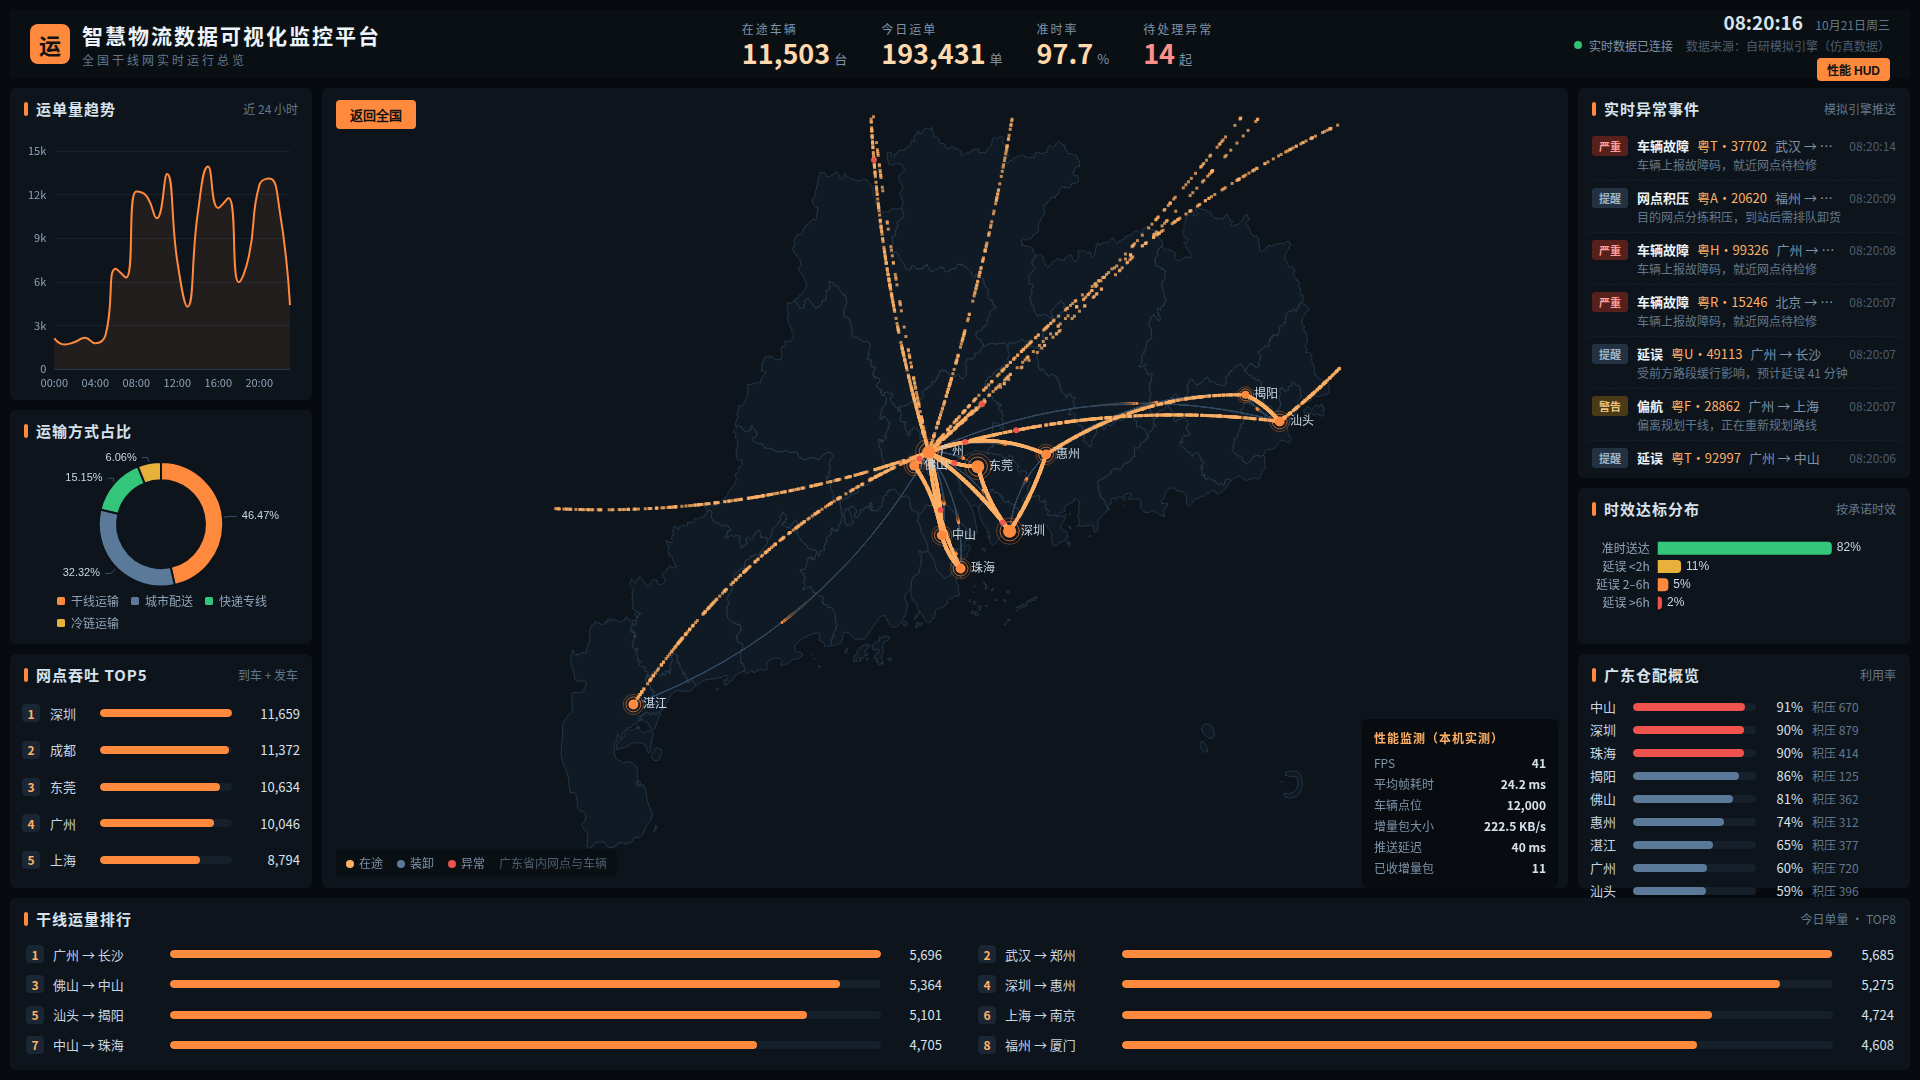
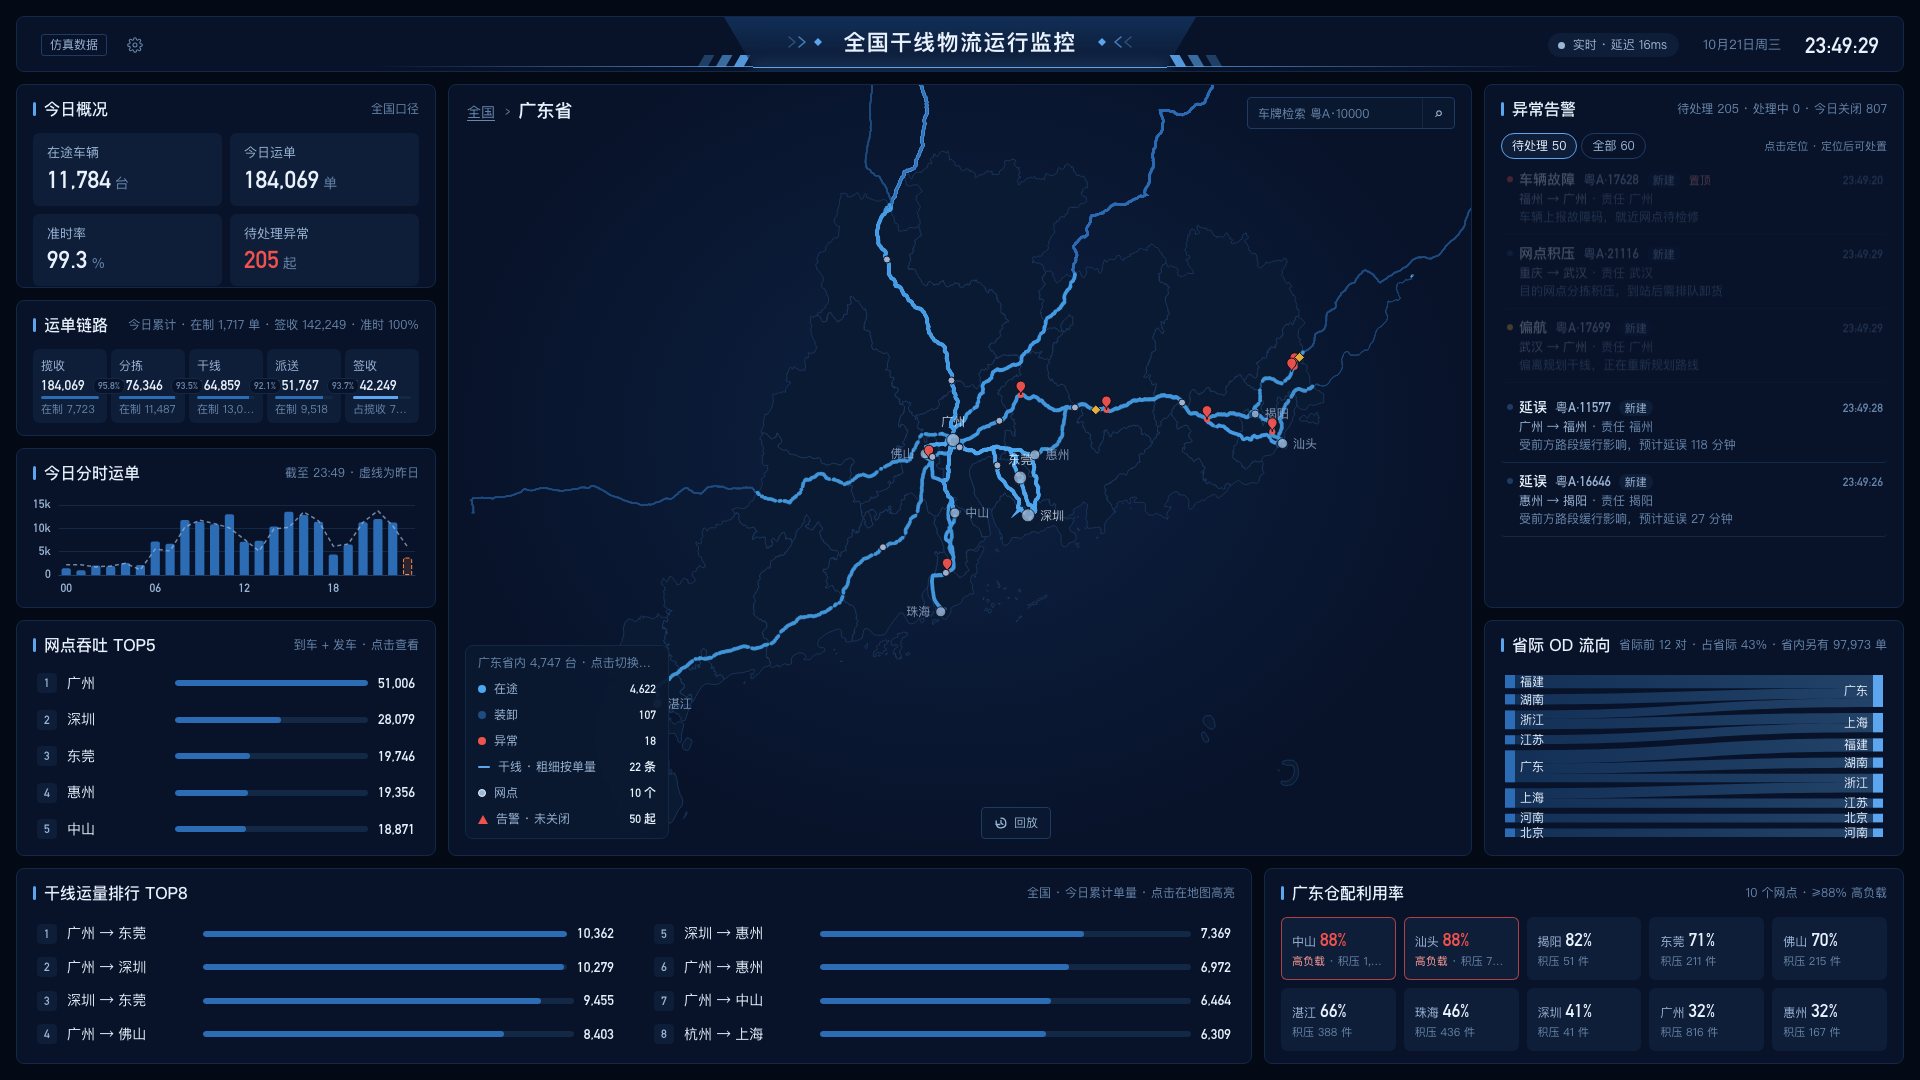
fix: 修复生产包首屏快照早于路线分块到达时 geo 无地图名导致地图实例作废，新增 CDP 截图与传输量实测脚本，重拍六张截图并更新性能表，收紧 1366/1440 紧凑布局

diff --git a/client/src/components/MapChart.vue b/client/src/components/MapChart.vue
@@ -50,6 +50,9 @@ let feedTimer: number | undefined
 let transitionTimer: number | undefined
 let buildVersion = 0
 let disposed = false
+// 基础 option（geo + 全部 series）是否已设置到当前实例：之前局部 setOption 若抢在它前面，
+// 会生成没有 map 名的 geo 组件，生产包里 ECharts 直接抛错并让实例作废（首包快照早于路线分块到达时必现）
+let ready = false
 const switching = ref(false)
 // 图例计数：统计当前视图内全部车辆（不受画质抽稀和图层开关影响）
 const statusCounts = ref<[number, number, number]>([0, 0, 0])
@@ -146,7 +149,7 @@ const VEHICLE_SERIES_IDS = ['veh-0', 'veh-1', 'veh-2', 'veh-dim']
 
 function renderVehicles(limit = Number.POSITIVE_INFINITY) {
   const c = chart.value
-  if (!c) return
+  if (!c || !ready) return
   const groups = vehicleSeriesData(limit)
   store.renderedVehicles = groups.reduce((sum, group) => sum + group.length, 0)
   // 增量更新：只替换三组车辆散点与追踪标记的数据，不重建整个 option
@@ -394,7 +397,7 @@ function geoTooltip(p: { name: string }) {
 
 function updateSelection() {
   const c = chart.value
-  if (!c) return
+  if (!c || !ready) return
   c.dispatchAction({ type: 'hideTip' })
   c.setOption({ geo: geoLayout(), series: [
     { id: 'lines', data: linesData() },
@@ -582,6 +585,7 @@ async function rebuildMap() {
   const c = chart.value
   if (!c) return
   const version = ++buildVersion
+  ready = false
   switching.value = true
   mapError.value = ''
   window.clearTimeout(feedTimer)
@@ -593,6 +597,7 @@ async function rebuildMap() {
     region = loaded
     if (loaded) ASPECT[view] = loaded.aspect
     c.setOption(baseOption(), { notMerge: true })
+    ready = true
     progressiveFeed()
     updateSelection()
   } catch (error) {
@@ -738,7 +743,7 @@ watch(insetChart, (c) => {
 }, { flush: 'post' })
 
 // 地图布局用的是画布像素坐标，不会随 resize 自动更新：等图表实例按新尺寸 resize 完成后再重算
-onResized(() => chart.value?.setOption({ geo: geoLayout() }))
+onResized(() => { if (ready) chart.value?.setOption({ geo: geoLayout() }) })
 
 onBeforeUnmount(() => {
   disposed = true
@@ -752,7 +757,7 @@ watch([() => store.selectedHubId, () => store.activeEvent, () => store.selectedP
 // 尾迹拉取完成 / 回放开关切换时重画尾迹与标记
 watch([() => store.trail, () => store.playback.on], () => { updateSelection(); scheduleVehicleRender() })
 // 告警到达 / 处置 / 关闭时刷新地图标记（事件列表引用变化即触发）
-watch(() => store.events, () => { if (chart.value) chart.value.setOption({ series: [{ id: 'alert-marks', data: alertMarkData() }] }) })
+watch(() => store.events, () => { if (chart.value && ready) chart.value.setOption({ series: [{ id: 'alert-marks', data: alertMarkData() }] }) })
 // 选中干线：线路淡出 / 高亮与线外车辆淡化一起更新；单量分级变化（跨四分位）时重画线路
 watch(() => store.selectedRouteIndex, () => { updateSelection(); scheduleVehicleRender() })
 watch(gradeKey, () => { if (store.hasData) updateSelection() })

diff --git a/client/src/App.vue b/client/src/App.vue
@@ -50,8 +50,8 @@ onMounted(() => {
   } catch { store.hudOn = hud === '1' }
   window.addEventListener('keydown', onKey)
   startDataFeed()
-  // 开发模式调试钩子：方便用无头浏览器验收下钻/网点详情等交互状态
-  if (import.meta.env.DEV) {
+  // 调试钩子：开发模式或 URL 带 ?debug=1 时暴露 store，供无头浏览器验收脚本切换下钻 / 网点详情等状态
+  if (import.meta.env.DEV || new URLSearchParams(location.search).get('debug') === '1') {
     ;(window as unknown as Record<string, unknown>).__dashboard = store
   }
 })
@@ -213,8 +213,8 @@ button:focus-visible, [role='button']:focus-visible {
 @media (max-width: 1599px), (max-height: 980px) {
   .screen { grid-template-rows: auto minmax(520px, 1fr) 168px; }
   .middle { grid-template-columns: 340px minmax(0, 1fr) 340px; }
-  .left { grid-template-rows: auto auto minmax(150px, 1fr) 220px; }
-  .right { grid-template-rows: minmax(0, 1fr) 220px; }
+  .left { grid-template-rows: auto auto minmax(130px, 1fr) 172px; }
+  .right { grid-template-rows: minmax(0, 1fr) 200px; }
   .bottom { grid-template-columns: minmax(0, 1fr) 520px; }
 }
 /* 矮屏（如 1366×768 笔记本）：正常状态一屏放下；出现数据提示条时允许少量滚动，不压缩图表可读高度 */
@@ -223,8 +223,8 @@ button:focus-visible, [role='button']:focus-visible {
   .middle, .col, .bottom { gap: var(--space-2); }
   /* 中间三列不以内容撑高（告警条数随高度变化，避免互相放大），行高只取最小值与剩余空间 */
   .middle > * { contain: size; }
-  .left { grid-template-rows: auto auto minmax(150px, 1fr) 176px; }
-  .right { grid-template-rows: minmax(0, 1fr) 176px; }
+  .left { grid-template-rows: auto auto minmax(90px, 1fr) 140px; }
+  .right { grid-template-rows: minmax(0, 1fr) 160px; }
 }
 /* 放大模式下逻辑高度为 1080，逻辑宽 ≥ 2400 等价于宽高比 ≥ 20/9（媒体查询只看物理 CSS 尺寸）。
    宽屏规则都排除 fit-contain：媒体查询看的是视口，而 contain 的内容宽固定 ≤1920，应沿用 1920 布局 */

diff --git a/client/vite.config.ts b/client/vite.config.ts
@@ -5,24 +5,26 @@ import vue from '@vitejs/plugin-vue'
 const env = (globalThis as { process?: { env: Record<string, string | undefined> } }).process?.env ?? {}
 const engine = env.ENGINE_URL || 'http://localhost:8787'
 
+const proxy = {
+  '/api': {
+    target: engine,
+    changeOrigin: true,
+    rewrite: (p: string) => p.replace(/^\/api/, ''),
+  },
+  '/ws': {
+    target: engine.replace(/^http/, 'ws'),
+    ws: true,
+    rewrite: () => '/',
+  },
+}
+
 export default defineConfig({
   plugins: [vue()],
   // 地图 GeoJSON 以 JSON.parse("…") 形式打包，比同等大小的 JS 对象字面量解析更快
   json: { stringify: true },
-  server: {
-    proxy: {
-      '/api': {
-        target: engine,
-        changeOrigin: true,
-        rewrite: (p) => p.replace(/^\/api/, ''),
-      },
-      '/ws': {
-        target: engine.replace(/^http/, 'ws'),
-        ws: true,
-        rewrite: () => '/',
-      },
-    },
-  },
+  server: { proxy },
+  // vite preview 同样代理到引擎，验收脚本可直接对生产构建截图与测帧率
+  preview: { proxy },
   build: {
     target: 'chrome87',
     chunkSizeWarningLimit: 2500,

diff --git a/client/src/components/KpiOverview.vue b/client/src/components/KpiOverview.vue
@@ -58,10 +58,17 @@ dd { display: flex; align-items: baseline; gap: var(--space-1); min-width: 0; ma
 }
 .value.alert { color: var(--color-danger); }
 small { flex: none; font-size: var(--font-body); color: var(--color-tertiary); }
-/* 矮屏：卡片收紧，把高度让给分时柱图 */
-@media (max-height: 820px) {
-  .tile { padding: 4px 12px 6px; }
+/* 紧凑布局（1600 宽以下或 980 高以下）：卡片收紧，把高度让给运单链路与分时柱图；矮屏再收一档 */
+@media (max-width: 1599px), (max-height: 980px) {
+  .tile { padding: 6px 12px 6px; }
   dt { font-size: var(--font-small); }
-  .value { font-size: 20px; font-size: clamp(16px, 12cqw, 20px); }
+  .value { font-size: 22px; font-size: clamp(16px, 13cqw, 22px); }
+}
+@media (max-height: 820px) {
+  .grid { gap: 4px; }
+  .tile { padding: 2px 10px 3px; }
+  dt { font-size: 11px; line-height: 1.3; }
+  .value { font-size: 18px; font-size: clamp(15px, 11cqw, 18px); }
+  small { font-size: var(--font-small); }
 }
 </style>

diff --git a/client/src/components/ShipmentFunnel.vue b/client/src/components/ShipmentFunnel.vue
@@ -95,9 +95,13 @@ const extra = computed(() => s.value
 .last .bar i { background: var(--color-barLight); }
 small { font-size: 11px; color: var(--color-tertiary); white-space: nowrap; overflow: hidden; text-overflow: ellipsis; }
 .empty { color: var(--color-secondary); font-size: var(--font-small); }
-@media (max-height: 820px) {
-  .tile { padding: 4px 6px; }
+@media (max-width: 1599px), (max-height: 980px) {
+  .tile { padding: 5px 6px 4px; }
   .value { font-size: 16px; font-size: clamp(13px, 20cqw, 16px); }
+}
+@media (max-height: 820px) {
+  .tile { padding: 2px 6px; gap: 1px; }
+  .name { font-size: 11px; }
   small { display: none; }
 }
 </style>

diff --git a/client/src/components/Panel.vue b/client/src/components/Panel.vue
@@ -70,4 +70,10 @@ const store = useDashboardStore()
 .panel-content { display: flex; flex-direction: column; flex: 1; min-width: 0; min-height: 0; }
 .pending .panel-content { visibility: hidden; }
 .placeholder { position: absolute; inset: var(--space-4); color: var(--color-secondary); font-size: var(--font-body); }
+/* 矮屏（如 1366×768）：面板头部与内边距各收 8px，左列四个面板合计省出约 60px 给图表 */
+@media (max-height: 820px) and (min-width: 1280px) {
+  .panel-head { padding: 8px var(--space-3) 0; }
+  .panel-head h3 { font-size: var(--font-body); }
+  .panel-body { padding: 8px var(--space-3) 8px; }
+}
 </style>

diff --git a/client/src/services/useEcharts.ts b/client/src/services/useEcharts.ts
@@ -36,7 +36,8 @@ export function useEcharts(): { el: Ref<HTMLDivElement | null>; chart: ShallowRe
     chart.value = null
     dpr = currentDpr()
     const instance = echarts.init(el.value, undefined, { renderer: 'canvas', devicePixelRatio: dpr })
-    if (option) instance.setOption(option)
+    // 回放旧 option 只是为了减少闪烁；失败不能让实例丢失，使用方会在 chart 变化时重新 setOption
+    if (option) { try { instance.setOption(option) } catch (error) { console.warn('图表重建时回放旧配置失败，等待使用方重绘', error) } }
     chart.value = instance
     store.renderDpr = dpr
     syncMotion()

diff --git a/client/src/components/TopHubs.vue b/client/src/components/TopHubs.vue
@@ -35,5 +35,6 @@ const max = computed(() => Math.max(1, ...store.topHubs.map(total)))
   --rank-name-width: 7em;
 }
 .list :deep(.rank-row) { cursor: pointer; }
-@media (max-height: 820px) { .list { --rank-row-height: 22px; } }
+@media (max-width: 1599px), (max-height: 980px) { .list { --rank-row-height: 22px; } }
+@media (max-height: 820px) { .list { --rank-row-height: 18px; } }
 </style>
